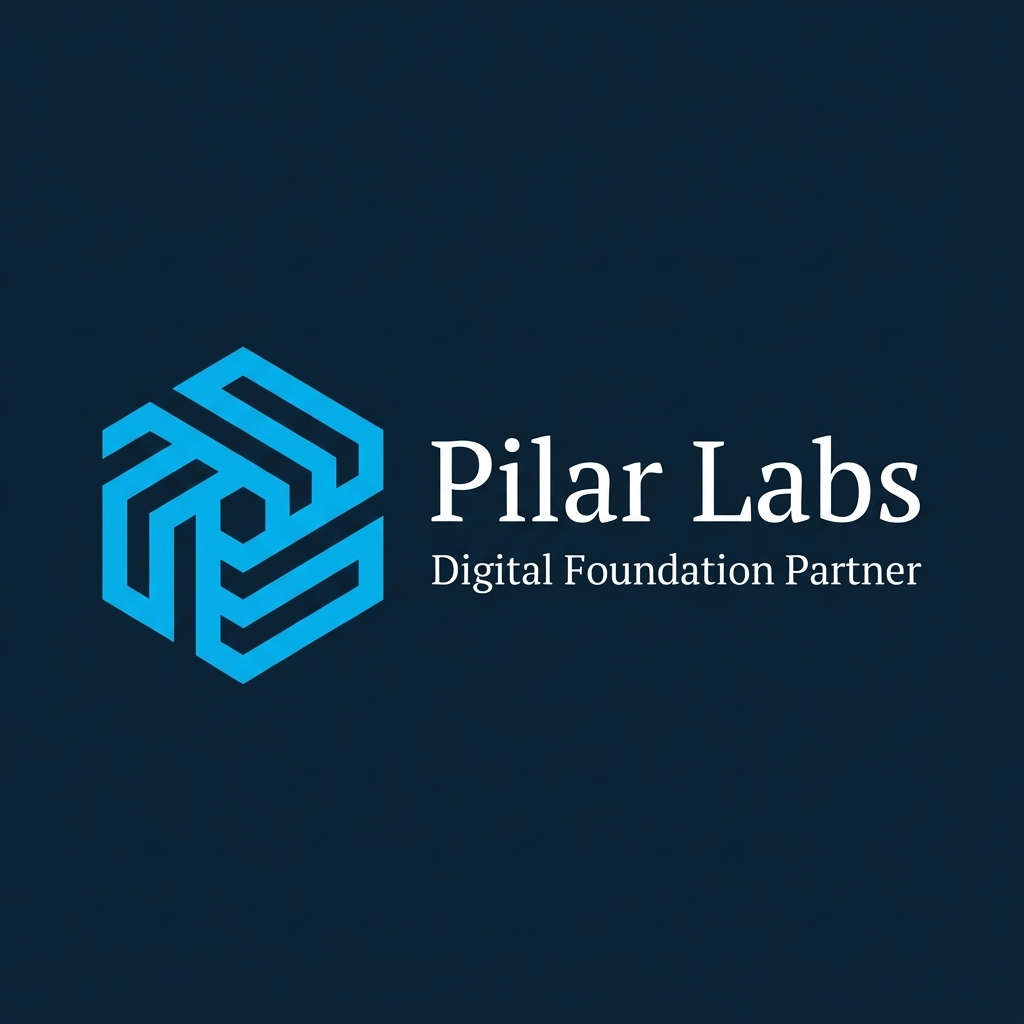
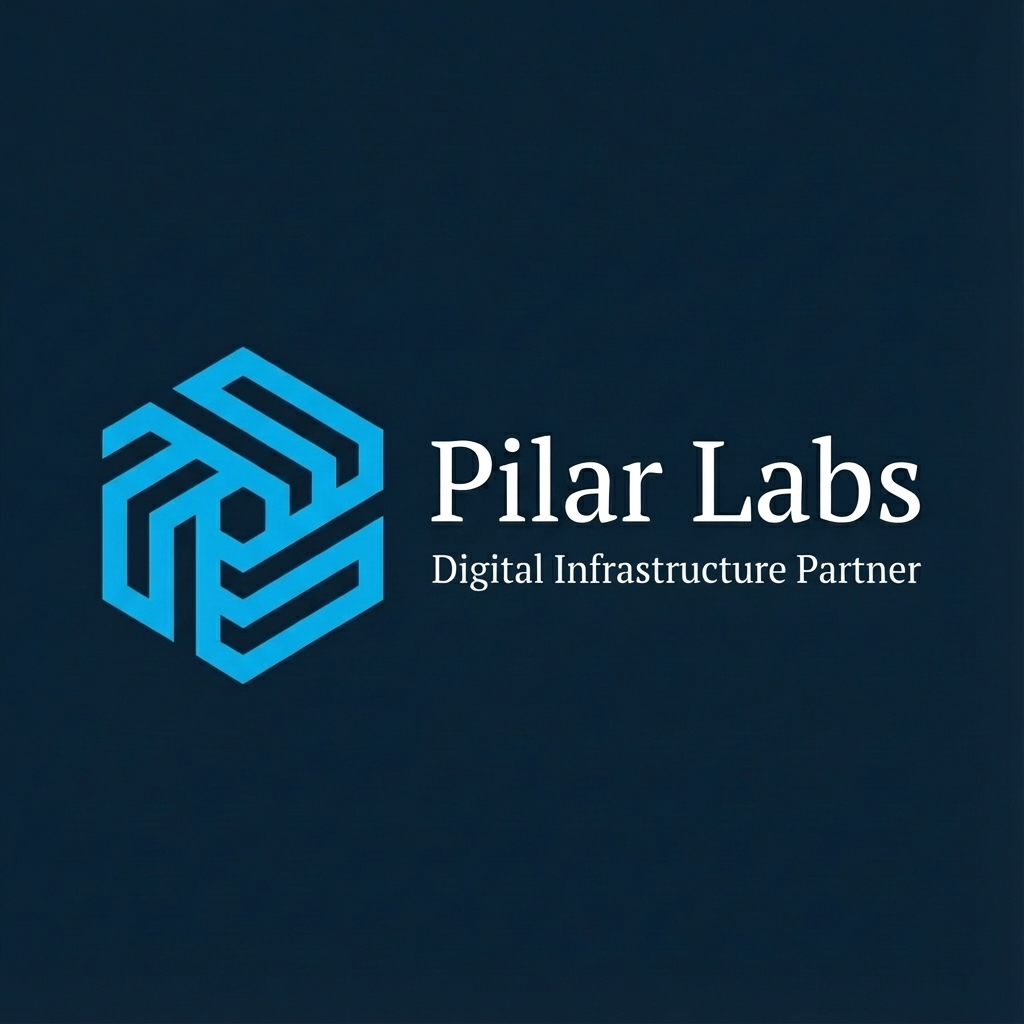
refactor: update branding tagline to Digital Infrastructure

Changed region(s): [[0.4375, 0.5312, 0.9062, 0.5938]]

diff --git a/src/config/seo-config.ts b/src/config/seo-config.ts
@@ -2,9 +2,9 @@
 export const siteConfig = {
     siteName: 'Pilar Labs',
     siteUrl: 'https://pilarlabs.id',
-    defaultTitle: 'Pilar Labs | Digital Foundation Partner',
+    defaultTitle: 'Pilar Labs | Digital Infrastructure Partner',
     titleTemplate: '%s | Pilar Labs',
-    description: 'Partner digital development yang membangun fondasi web yang kuat dan scalable untuk bisnis Anda. Arsitektur modern, kode berkualitas, pertumbuhan berkelanjutan.',
+    description: 'Partner digital development yang membangun infrastruktur web yang kuat dan scalable untuk bisnis Anda. Arsitektur modern, kode berkualitas, pertumbuhan berkelanjutan.',
     keywords: ['web development', 'digital agency', 'React development', 'TypeScript', 'scalable architecture', 'custom web application', 'Jakarta', 'Indonesia'],
     author: 'Pilar Labs',
     siteLanguage: 'id-ID',
@@ -40,14 +40,14 @@ export const siteConfig = {
 // Page-specific SEO configurations
 export const pageSEO = {
     home: {
-        title: 'Bangun Fondasi Digital yang Kokoh',
-        description: 'Partner digital development yang membangun fondasi web yang kuat dan scalable untuk bisnis Anda. Arsitektur modern, kode berkualitas, pertumbuhan berkelanjutan.',
-        keywords: ['web development Jakarta', 'digital foundation', 'React TypeScript', 'scalable web app', 'custom development', 'software house Jakarta'],
+        title: 'Bangun Infrastruktur Digital yang Kokoh',
+        description: 'Partner digital development yang membangun infrastruktur web yang kuat dan scalable untuk bisnis Anda. Arsitektur modern, kode berkualitas, pertumbuhan berkelanjutan.',
+        keywords: ['web development Jakarta', 'digital infrastructure', 'React TypeScript', 'scalable web app', 'custom development', 'software house Jakarta'],
         ogImage: '/og-image.png',
     },
     about: {
         title: 'Tentang Kami - Filosofi & Tim',
-        description: 'Kenali filosofi kami dalam membangun fondasi digital yang kokoh. Tim development berpengalaman yang fokus pada kualitas, presisi, dan pertumbuhan jangka panjang.',
+        description: 'Kenali filosofi kami dalam membangun infrastruktur digital yang kokoh. Tim development berpengalaman yang fokus pada kualitas, presisi, dan pertumbuhan jangka panjang.',
         keywords: ['about pilar labs', 'software development team', 'digital agency Jakarta', 'web development philosophy'],
     },
     services: {

diff --git a/index.html b/index.html
@@ -9,10 +9,10 @@
   <meta name="viewport" content="width=device-width, initial-scale=1.0" />
 
   <!-- Primary Meta Tags -->
-  <title>Pilar Labs | Digital Foundation Partner</title>
-  <meta name="title" content="Pilar Labs | Digital Foundation Partner" />
+  <title>Pilar Labs | Digital Infrastructure Partner</title>
+  <meta name="title" content="Pilar Labs | Digital Infrastructure Partner" />
   <meta name="description"
-    content="Partner digital development yang membangun fondasi web yang kuat dan scalable untuk bisnis Anda. Arsitektur modern, kode berkualitas, pertumbuhan berkelanjutan." />
+    content="Partner digital development yang membangun infrastruktur web yang kuat dan scalable untuk bisnis Anda. Arsitektur modern, kode berkualitas, pertumbuhan berkelanjutan." />
   <meta name="keywords"
     content="web development, digital agency, React development, TypeScript, scalable architecture, Jakarta, Indonesia" />
   <meta name="author" content="Pilar Labs" />
